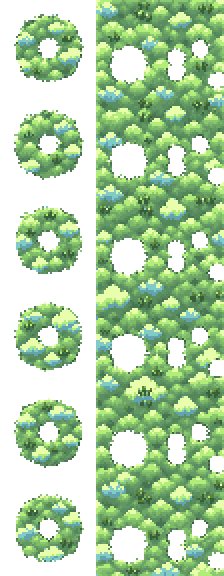
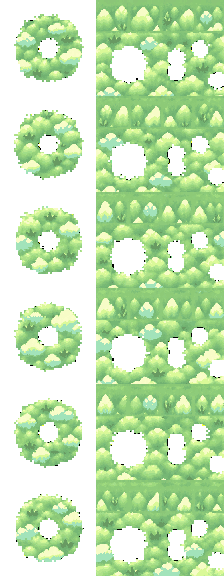
Ship Codex's nightfell wall (second round, shaded) and the bright cloudturf with motifs inside the cells
Cloudturf's top pixel row carried hill tips across the cell edge; it is
replaced by the row below, which takes the seam audit from 4.81 to 0.83.
Nightfell conformed (roof slot rebuilt, seams blended), door and window
icons re-cut. gen_walls writes neither wall any more.

diff --git a/tools/asset_generator/generate_assets.py b/tools/asset_generator/generate_assets.py
@@ -99,7 +99,7 @@ CONVERTED = ("tiles/skyway.png", "tiles/skyway_splat.png",
              "objects/hauntedclock.png",
              # Codex art through tools/codex_wall.py and tools/codex_splat.py
              # (docs/art/RUNS.md, 2026-09-16).
-             "objects/skystonebrickwall.png",
+             "objects/skystonebrickwall.png", "objects/nightfellwall.png",
              "tiles/nimbusfloor_splat.png", "tiles/prismfloor_splat.png",
              # Our own art for the three Outland mobs, which used to wear
              # vanilla's sheets by string ID.

diff --git a/tools/asset_generator/gen_walls.py b/tools/asset_generator/gen_walls.py
@@ -460,4 +460,6 @@ NIGHTFELL_WALL = {
 def gen_walls(out_dir):
     # objects/skystonebrickwall.png is Codex art since 2026-09-16
     # (tools/codex_wall.py, CONVERTED in generate_assets.py).
-    _build_wall(NIGHTFELL_WALL, 0x5A22).save(f"{out_dir}/nightfellwall.png")
+    # objects/nightfellwall.png is Codex art as well (same route).
+    # _build_wall stays as the record of the old drawn sets.
+    pass
